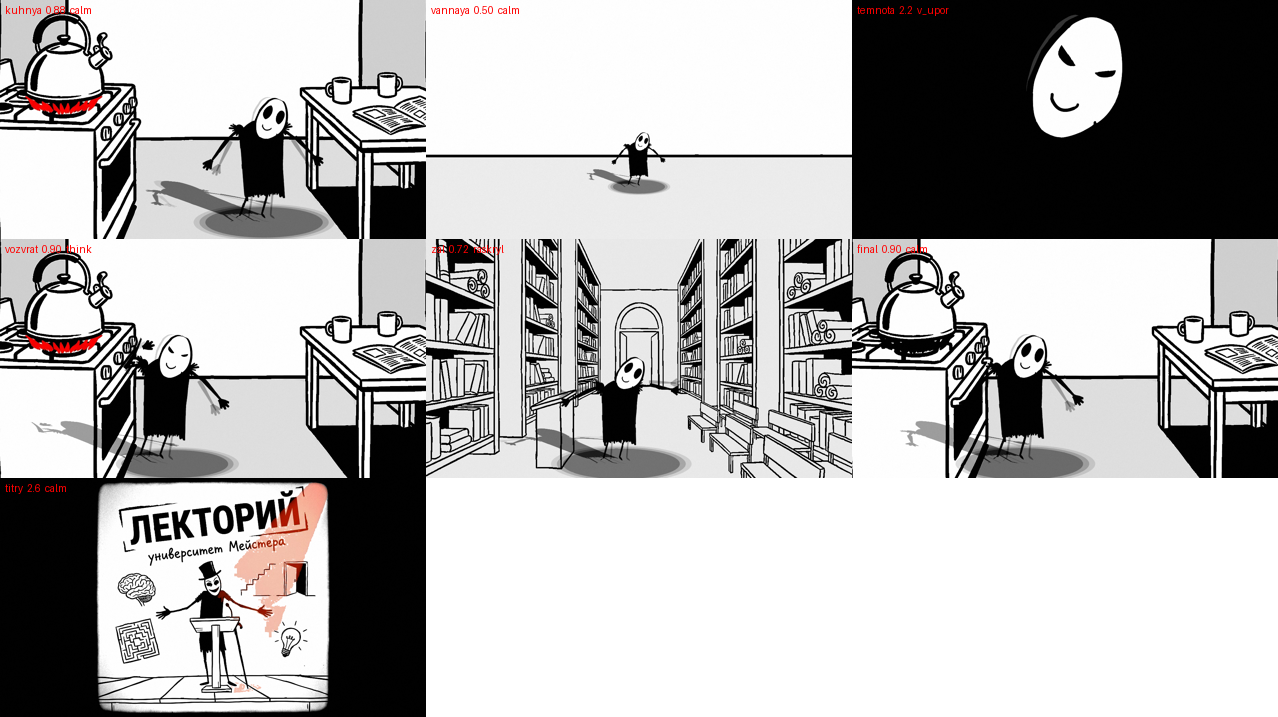
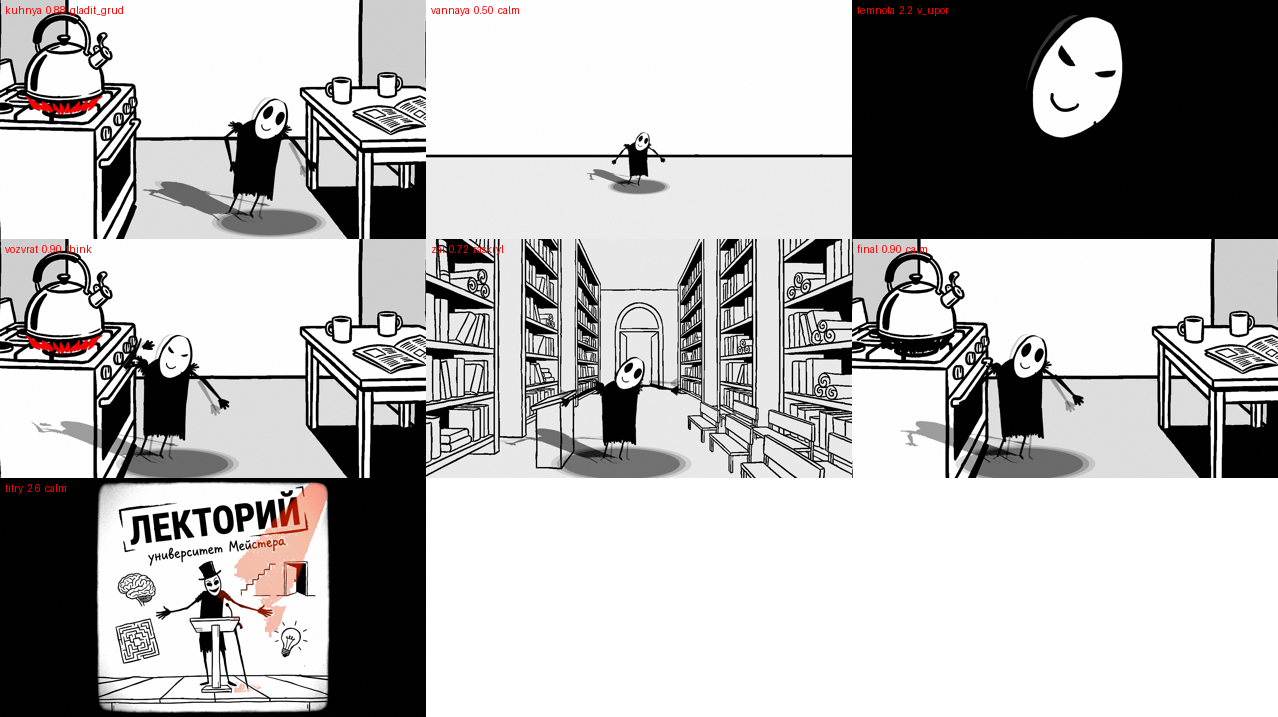
Кольцо для ленты: конец сшит с началом одним жестом [skip render]
Инстаграм зацикливает ролик, и если конец с началом не сшиты, на втором
круге зритель видит шов. Теперь один жест стоит в обоих концах: персонаж
гладит себя по груди, и на балахоне ПРОЯВЛЯЕТСЯ номер курса.

Первые секунды идут без единого слова — в ленте две секунды решают всё, а
слово за две секунды не успевает. Последняя реплика: «Так, идём дальше.
Лекторий Мейстера, курс лекций номер шесть» и тот же жест. При
зацикливании это читается объявлением следующего, а не повтором.

ГЕЙТ ЗНАЕТ ПРО ПОДПИСЬ И НЕ СУДИТ ЕЁ КАК ФИНАЛ: драматургический финал —
реплика перед ней, её и проверяет правило «финал — удар, а не точка».
Подпись обязана кончаться точкой, она объявляет, а не бьёт. Отдельная
строка проверяет, что подпись вообще есть.

ДВЕ НОВЫЕ ПОЗЫ — `gladit_grud` и `gladit_grud_niz`: одной позой жест не
сделать, поглаживание это движение, а не положение. Углы от проверенной
`k_sebe`, меняется только высота локтя. Внутри реплики идут НАКЛАДКОЙ:
полная поза сбрасывает липсинк, и гейт речи это поймал сразу — обе позы
трогают только руку, поэтому ложатся слоем без потерь.

Номер выше и на 30% мельче (0.30 → 0.21): нашивка на груди, а не эмблема
во весь балахон.

Разбор дописан в RABOTA-NAD-OSHIBKAMI.md, §IX. Гейты зелёные, сценарий
100/100, осанка чистая — 24 позы.

Claude-Session: https://claude.ai/code/session_0151az6jnckEmCmTyqNRrq52

Changed region(s): [[0.1221, 0.1534, 0.2746, 0.3375], [0.061, 0.0, 0.0915, 0.0307]]

diff --git a/tools/script_lint.py b/tools/script_lint.py
@@ -210,6 +210,16 @@ def hits(rows, raw=""):
     text_all = " ".join(r["text"] for r in rows)
     beats_all = " ".join(r["beat"] for r in rows).upper()
     first, last = rows[0], rows[-1]
+    # ПОДПИСЬ-КОЛЬЦО НЕ СЧИТАЕТСЯ ФИНАЛОМ. Ролики уходят в ленту, где они
+    # зациклены, и последняя реплика серии — не удар, а сшивка: «Так, идём
+    # дальше. Лекторий Мейстера, курс лекций номер N» плюс тот же жест, что и в
+    # первых секундах. Она ОБЪЯВЛЯЕТ СЛЕДУЮЩЕЕ, поэтому кончается точкой, и
+    # требовать от неё вопроса или обрыва бессмысленно.
+    #
+    # Драматургический финал — реплика перед подписью, её и проверяем.
+    ring = "ПОДПИС" in last["beat"].upper() or "КОЛЬЦ" in last["beat"].upper()
+    if ring and len(rows) > 1:
+        last = rows[-2]
 
     out.append((10, bool(ADDRESS.search(first["text"])), "обращение к зрителю в первой реплике",
                 "первая фраза не адресована лично («ты/вы») — зритель остаётся наблюдателем"))
@@ -363,6 +373,12 @@ def hits(rows, raw=""):
                 "; ".join(f"«{w}»" for w in naked)
                 + " — без знака U+0301 синтез прочтёт по-своему. Правильно: "
                 + "; ".join(hints) if naked else ""))
+
+    out.append((4, ring, "есть подпись-кольцо для ленты",
+                "последняя реплика — не подпись: в ленте ролик зациклен, и без "
+                "сшивки зритель на втором круге видит шов. Нужна реплика вида "
+                "«Так, идём дальше. Лекторий Мейстера, курс лекций номер N» с тем "
+                "же жестом, что и в первых секундах"))
 
     bad = [name for name, pat in FORBIDDEN.items() if re.search(pat, text_all, re.I)]
     out.append((5, not bad, "нет стоп-приёмов",

diff --git a/examples/lektorij/emocii-VO.md b/examples/lektorij/emocii-VO.md
@@ -65,6 +65,7 @@
 | VO-9 | 0:45.5–0:51.3 | ПОДЪЁМ | «Чем раньше точка, тем дешевле. Снять чайник с огня стоит секунды. Заткнуть свисток — стоит вечера.» *(ровно, как считают деньги; темп 0.95)* | там же, ближе |
 | VO-10 | 0:51.8–0:55.8 | ПРЕЗЕНТАЦИЯ | «Курс так и называется: эмоциональный интеллект. Десять лекций, и все бесплатно.» *(спокойно, по делу; темп 0.97)* | зал Лектория |
 | VO-11 | 0:56.4–1:00.7 | ЖАЛО | «Сегодня, когда засвистит, не хватайтесь за свисток. Спросите: где огонь?» *(с вызовом — и уходит; темп 1.00)* | кухня: огонь погашен, чайник молчит |
+| VO-12 | 1:01.3–1:05.6 | ПОДПИСЬ-КОЛЬЦО | «Так, идём дальше. Лекторий Мейстера, курс лекций номер шесть.» *(буднично, как объявляют следующий пункт; гладит себя по груди — проявляется номер; темп 1.00)* | кухня: огонь погашен |
 
 ### ТЕМП: где как из пулемёта, а где чтобы мысль дошла
 
@@ -125,6 +126,23 @@
 цену. Секунды против вечера: это арифметика, а не мораль, и потому её нечем
 возразить.
 
+### Кольцо для ленты: конец сшит с началом
+
+Ролик уходит в инстаграм, где он ЗАЦИКЛИВАЕТСЯ. Если конец и начало не сшиты,
+зритель на втором круге чувствует шов и уходит — «а, это уже было».
+
+Поэтому один и тот же жест стоит в обоих концах: **персонаж гладит себя по
+груди, и на балахоне ПРОЯВЛЯЕТСЯ номер курса**.
+
+- **0:00–0:00.6** — гладит грудь, номер проявляется. Ещё ни одного слова: в
+  ленте первые две секунды решают, и решает их картинка, а не текст.
+- **1:01.3** — «Так, идём дальше. Лекторий Мейстера, курс лекций номер шесть» —
+  и тот же жест, тот же проявляющийся номер.
+
+При зацикливании последняя фраза читается как ОБЪЯВЛЕНИЕ СЛЕДУЮЩЕГО, а не как
+повтор: «идём дальше» — и ролик действительно идёт дальше, с начала. Шва нет,
+потому что он и есть приём.
+
 ### Тайм-якоря 7 / 14 / 21 (§5.0)
 - **t≈0.6с** — узнавание: досчитал, дышал, сорвался.
 - **t≈8.6с** — чайник. Пока про чайник.
@@ -140,7 +158,8 @@
 - **0:25.1–0:25.7** — ОБРЫВ В ЧЁРНОЕ.
 - **0:37.0–0:38.2** — ДРАМАТИЧЕСКАЯ ПАУЗА: оценка названа, сейчас скажут, что с
   ней делать. Самая длинная в ролике — 1.2 с.
-- **1:00.7–1:03** — свист оборвался. Уходит в тишине, которой не было с начала.
+- **1:00.7–1:01.3** — свист оборвался: тишина, которой не было с начала.
+- **1:05.6–1:07** — ушёл. Хвост короткий: подпись уже сказана.
 
 ### РЕЖИССУРА
 Проход один и на своём месте: **ванная (VO-4)** — персонаж идёт НА КАМЕРУ к

diff --git a/RABOTA-NAD-OSHIBKAMI.md b/RABOTA-NAD-OSHIBKAMI.md
@@ -333,3 +333,37 @@
 прижимает фон боковой цепью, поэтому под речью постель уходит вниз сама, а в
 паузах возвращается и держит комнату. Полоса та же, ниже 260 Гц: речи не мешает
 даже неприжатая.
+
+
+---
+
+## IX. Кольцо для ленты: конец, который читается как начало
+
+Требование студии: «в конце ролика должно быть что-то, что определяет начало,
+чтобы человек не понял, что ролик начался заново».
+
+Инстаграм ЗАЦИКЛИВАЕТ ролик. Если конец и начало не сшиты, на втором круге
+зритель чувствует шов и уходит — «а, это уже было». Решение: один и тот же жест
+в обоих концах.
+
+- **Первые секунды, без единого слова:** персонаж гладит себя по груди, и на
+  балахоне ПРОЯВЛЯЕТСЯ номер курса. В ленте две секунды решают всё, а слово за
+  две секунды не успевает — ловит картинка.
+- **Последняя реплика:** «Так, идём дальше. Лекторий Мейстера, курс лекций
+  номер N» — и тот же жест, тот же проявляющийся номер.
+
+При зацикливании подпись читается как ОБЪЯВЛЕНИЕ СЛЕДУЮЩЕГО, а не как повтор:
+«идём дальше» — и ролик действительно идёт дальше, с начала.
+
+**Гейт знает про подпись и не судит её как финал.** Драматургический финал —
+реплика ПЕРЕД подписью, её и проверяет правило «финал — удар, а не точка».
+Подпись обязана кончаться точкой: она объявляет, а не бьёт. Отдельная строка
+проверяет, что подпись вообще есть.
+
+**Жест — накладкой, а не полной позой** внутри реплики: полная поза сбрасывает
+липсинк. Обе позы поглаживания (`gladit_grud`, `gladit_grud_niz`) трогают только
+руку, поэтому ложатся слоем без потерь. В первой сцене, до речи, они идут
+полными позами — там сбрасывать нечего.
+
+**Номер: выше и мельче** (0.30 → 0.21 по замечанию студии). Метка должна
+читаться как нашивка на груди, а не как эмблема во весь балахон.
